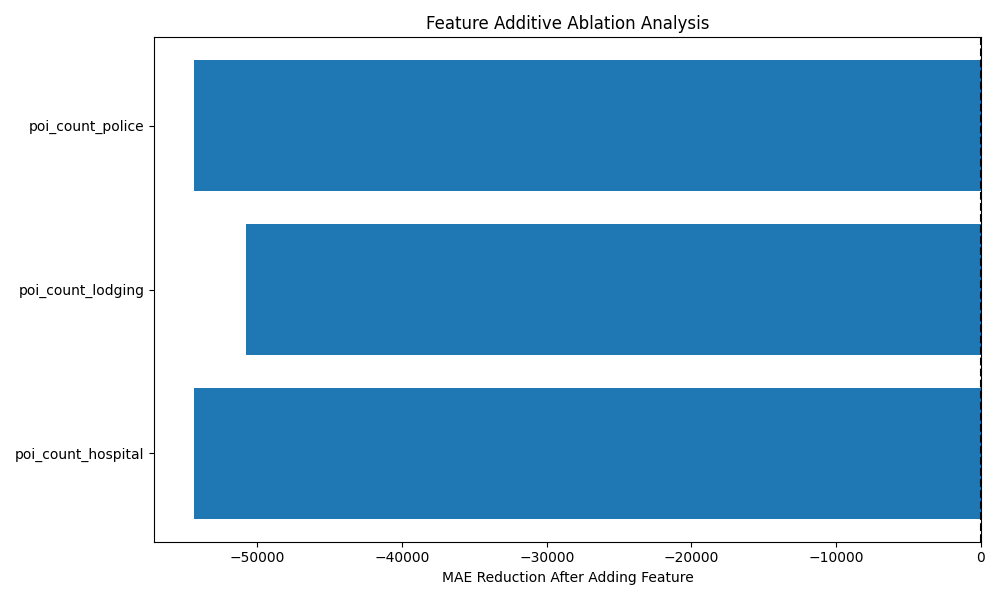
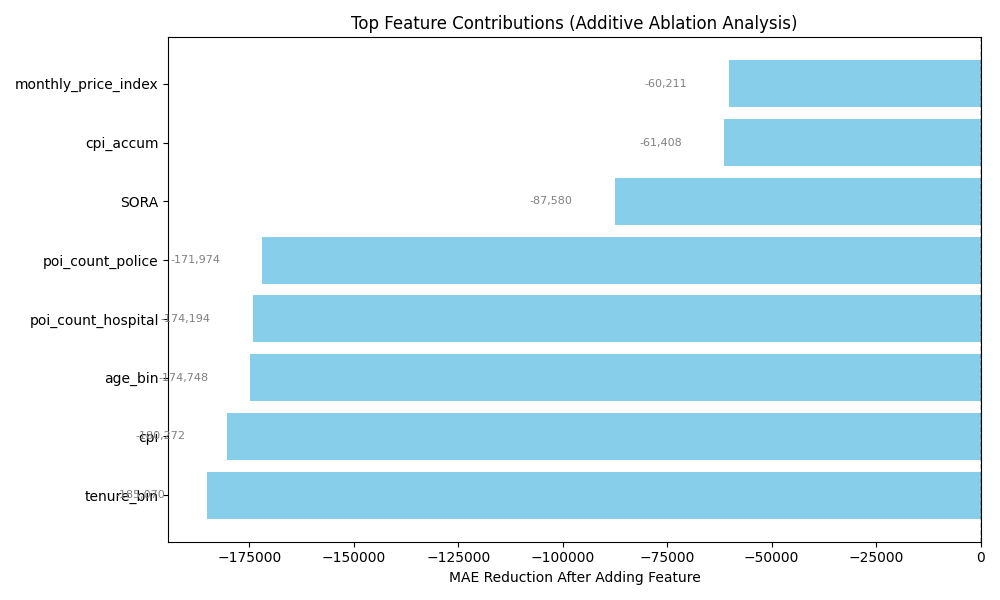
SCRUM-19-Create-2-visualization-for-kmeans-algorithm

diff --git a/src/analysis/ablation_analysis.py b/src/analysis/ablation_analysis.py
@@ -7,6 +7,8 @@ import json
 from dataclasses import dataclass
 import matplotlib.pyplot as plt
 import pandas as pd
+import numpy as np
+import seaborn as sns
 from sklearn.metrics import mean_absolute_error
 from sklearn.base import clone, BaseEstimator
 from sklearn.compose import ColumnTransformer
@@ -144,6 +146,79 @@ def _evaluate_with_added_feature(inputs: AblationInput) -> float:
     preds = model_pipeline.predict(x_test)
     return mean_absolute_error(inputs.data.y_test, preds)
 
+def extract_top_features_from_importance(path: str,
+    top_k: int = 10) -> tuple[list[str], list[str]]:
+    """
+    Extract top unique feature names.
+
+    :param path: Path to the JSON file.
+    :type path: str
+    :param top_k: Number of top unique features based on importance score.
+    :type top_k: int
+    :return: Tuple containing two lists — top numeric and top categorical 
+    :rtype: tuple[list[str], list[str]]
+    """
+    with open(path, "r", encoding="utf-8") as f:
+        feature_importance = json.load(f)["best_model"]["feature_importance"]
+
+    sorted_features = sorted(feature_importance.items(), key=lambda x: x[1], reverse=True)
+
+    seen = set()
+    top_features = []
+
+    for full_name, _ in sorted_features:
+        if full_name.startswith("num__"):
+            name = full_name.split("__", 1)[1]
+        elif full_name.startswith("cat__"):
+            name = full_name.split("__", 1)[1].split("_", 1)[0]
+        else:
+            continue
+
+        if name not in seen:
+            seen.add(name)
+            top_features.append((full_name, name))
+
+        if len(top_features) == top_k:
+            break
+
+    num_features = [name for full_name, name in top_features if full_name.startswith("num__")]
+    cat_features = [name for full_name, name in top_features if full_name.startswith("cat__")]
+
+    return num_features, cat_features
+
+
+def plot_ablation(diffs: dict, save_path: str = "./src/data/plot/ablation_additive_analysis.png"):
+    """
+    Plot chart to visualize feature ablation effects.
+
+    :param diffs: Dictionary mapping feature name
+    :type diffs: dict[str, float]
+    :param save_path: Path to save the generated plot image
+    :type save_path: str
+    """
+    diffs_sorted = dict(sorted(diffs.items(), key=lambda item: item[1], reverse=True))
+    features = list(diffs_sorted.keys())
+    reductions = list(diffs_sorted.values())
+
+    plt.figure(figsize=(10, 6))
+    bars = plt.barh(features, reductions, color='skyblue')
+    plt.axvline(0, color="black", linestyle="--", linewidth=1)
+    plt.xlabel("MAE Reduction After Adding Feature")
+    plt.title("Top Feature Contributions (Additive Ablation Analysis)")
+    plt.gca().invert_yaxis()  
+
+    for bar in bars:
+        width = bar.get_width()
+        plt.text(width + 1000 if width > 0 else width - 10000,  
+                 bar.get_y() + bar.get_height()/2,
+                 f"{width:,.0f}",
+                 va='center', ha='right' if width < 0 else 'left',
+                 fontsize=8, color="gray")
+
+    plt.tight_layout()
+    plt.savefig(save_path)
+    logger.info("Ablation analysis plot saved: %s", save_path)
+
 
 def perform_ablation_analysis(best_model_pipeline, df_input_train,
         df_input_test, target_column="target_price"):
@@ -166,9 +241,13 @@ def perform_ablation_analysis(best_model_pipeline, df_input_train,
     )
     logger.info("Loaded baseline MAE: %.4f", baseline_mae)
 
-    num_features = best_model_pipeline.named_steps["preprocessing"].transformers_[0][2]
-    cat_features = best_model_pipeline.named_steps["preprocessing"].transformers_[1][2]
+    num_features, cat_features = extract_top_features_from_importance(
+    "./src/data/output/all_models_features_results.json"
+    )
+
     addable = [f for f in all_ablation_features if f not in set(num_features + cat_features)]
+    logger.info("Top 10 features: %s and %s", num_features, cat_features)
+
     logger.info("Features to be added: %s", addable)
 
     df_input_train = df_input_train.sort_values("contract_date_dt").copy()
@@ -193,11 +272,4 @@ def perform_ablation_analysis(best_model_pipeline, df_input_train,
         results[feature] = _evaluate_with_added_feature(inputs)
 
     diffs = {k: baseline_mae - v for k, v in results.items()}
-    plt.figure(figsize=(10, 6))
-    plt.barh(list(diffs.keys()), list(diffs.values()))
-    plt.axvline(0, color="black", linestyle="--")
-    plt.xlabel("MAE Reduction After Adding Feature")
-    plt.title("Feature Additive Ablation Analysis")
-    plt.tight_layout()
-    plt.savefig("./src/data/plot/ablation_additive_analysis.png")
-    logger.info("Ablation analysis plot saved.")
+    plot_ablation(diffs)

diff --git a/src/analysis/unsupervised_kmeans.py b/src/analysis/unsupervised_kmeans.py
@@ -9,7 +9,7 @@ import matplotlib.pyplot as plt
 from sklearn.cluster import KMeans
 from sklearn.preprocessing import StandardScaler
 from sklearn.metrics import silhouette_score
-
+from src.utils.load_configs import load_configs_file
 
 logging.basicConfig(level=logging.INFO)
 logger = logging.getLogger(__name__)
@@ -41,11 +41,14 @@ def perform_kmeans(df_input : pd.DataFrame):
 
     df_kmeans = df_kmeans[df_kmeans["noOfUnits"] == 1]
     df_kmeans['tenure_bin'] = df_kmeans['tenure_bin'].replace('Freehold', '9999')
-    df_kmeans['tenure_bin'] = df_kmeans['tenure_bin'].str.replace(' yrs', '', regex=False)
+    df_kmeans['tenure_bin'] = df_kmeans['tenure_bin'].cat.rename_categories(
+        lambda x: x.replace(" yrs", "")
+    )
     df_kmeans['tenure_bin'] = pd.to_numeric(df_kmeans['tenure_bin'])
-    x = df_kmeans[["area", "tenure_bin",
-        "mrt_nearest_distance_m", "lrt_nearest_distance_m", "poi_count_restaurant",
-        "poi_count_school","poi_count_shopping_mall"]]
+    print("\n------------\n")
+    print(type(load_configs_file("features.yml")["kmeans_features"]))
+    print("\n------------\n")
+    x = df_kmeans[load_configs_file("features.yml")["kmeans_features"]]
     std_scaler = StandardScaler()
     x_scaled = std_scaler.fit_transform(x)
 

diff --git a/run.py b/run.py
@@ -195,7 +195,7 @@ def run_all(poi_type_list):
         feature_set="all_features",
     )
 
-    perform_failure_analysis(best_pipeline, df_train, df_test, indices=[0, 1])
+    #perform_failure_analysis(best_pipeline, df_train, df_test, indices=[0, 1])
 
     # Ablation analysis
     perform_ablation_analysis(best_pipeline, df_train, df_test,
